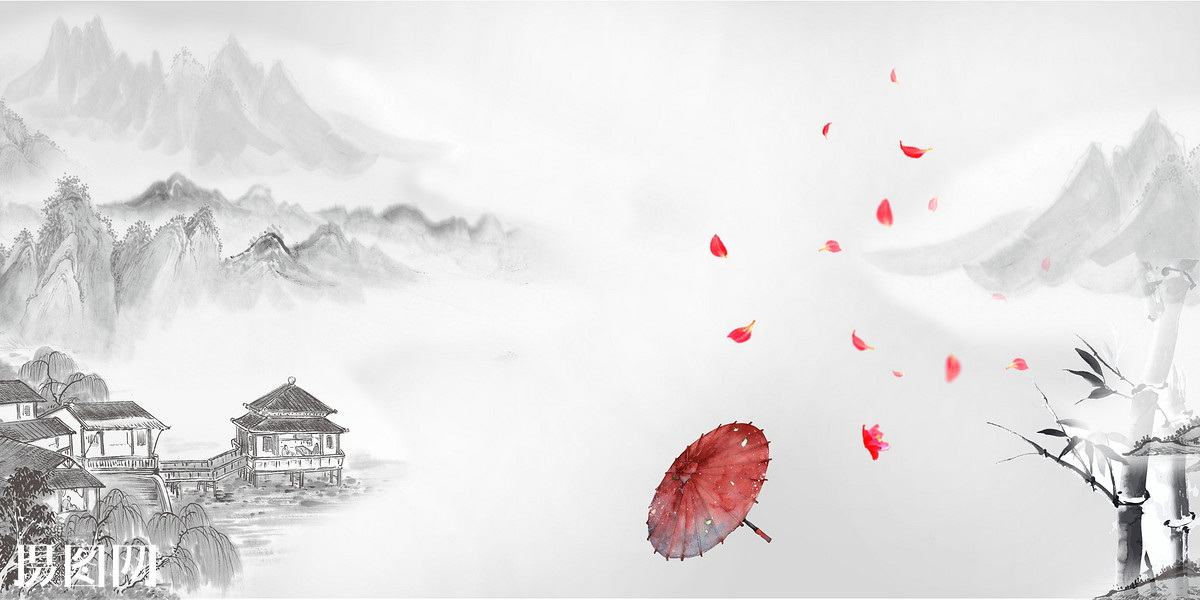
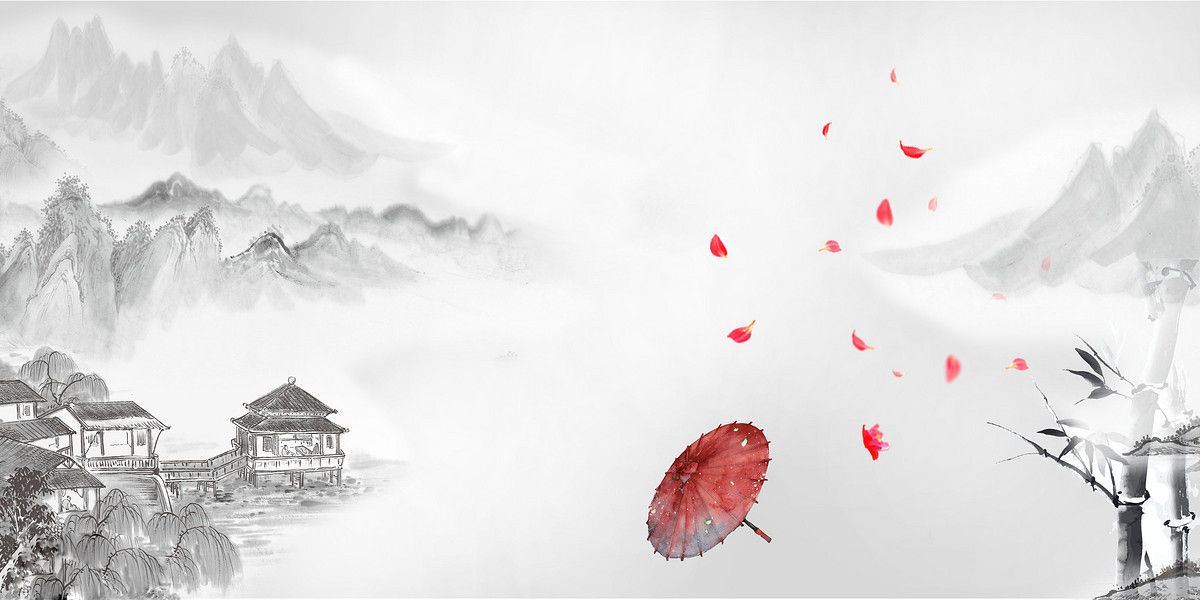
去除水印

Changed region(s): [[0.0, 0.87, 0.1542, 1.0]]

diff --git a/Gobang/GeneratedFiles/qrc_MainWindow.cpp b/Gobang/GeneratedFiles/qrc_MainWindow.cpp
@@ -1,13 +1,13 @@
 /****************************************************************************
 ** Resource object code
 **
-** Created by: The Resource Compiler for Qt version 5.10.1
+** Created by: The Resource Compiler for Qt version 5.10.0
 **
 ** WARNING! All changes made in this file will be lost!
 *****************************************************************************/
 
 static const unsigned char qt_resource_data[] = {
-  // E:/Visual Studio/Gobang/Gobang/image/????.PNG
+  // E:/IDE/GitHub/Gobang/Gobang/image/????.PNG
   0x0,0x0,0x2c,0x40,
   0x89,
   0x50,0x4e,0x47,0xd,0xa,0x1a,0xa,0x0,0x0,0x0,0xd,0x49,0x48,0x44,0x52,0x0,
@@ -718,7 +718,7 @@ static const unsigned char qt_resource_data[] = {
   0x4,0x20,0x0,0x1,0x8,0x40,0x0,0x2,0x10,0x80,0x0,0x4,0x20,0x0,0x1,0x8,
   0x40,0x0,0x2,0x10,0x80,0x0,0x4,0xb2,0x4,0xfe,0xf,0x21,0x6c,0x74,0x51,0x9f,
   0xc3,0xff,0x58,0x0,0x0,0x0,0x0,0x49,0x45,0x4e,0x44,0xae,0x42,0x60,0x82,
-    // E:/Visual Studio/Gobang/Gobang/image/?????????.png
+    // E:/IDE/GitHub/Gobang/Gobang/image/?????????.png
   0x0,0x0,0x65,0xed,
   0x0,
   0x8,0x9d,0x46,0x78,0x9c,0xed,0x9d,0xb,0xbc,0x5d,0x57,0x5d,0xe7,0xff,0xb7,0xa5,
@@ -2391,10 +2391,10 @@ static const unsigned char qt_resource_struct[] = {
 0x0,0x0,0x0,0x0,0x0,0x0,0x0,0x0,
   // :/MainWindow/image/????.PNG
   0x0,0x0,0x0,0x2a,0x0,0x0,0x0,0x0,0x0,0x1,0x0,0x0,0x0,0x0,
-0x0,0x0,0x1,0x63,0x3f,0xd6,0x41,0x78,
+0x0,0x0,0x1,0x63,0x3f,0x97,0x8f,0xcf,
   // :/MainWindow/image/?????????.png
   0x0,0x0,0x0,0x40,0x0,0x1,0x0,0x0,0x0,0x1,0x0,0x0,0x2c,0x44,
-0x0,0x0,0x1,0x63,0x40,0x26,0x63,0x23,
+0x0,0x0,0x1,0x63,0x40,0x25,0x81,0xca,
 
 };
 

diff --git a/Gobang/GeneratedFiles/Debug/moc_MainWindow.cpp b/Gobang/GeneratedFiles/Debug/moc_MainWindow.cpp
@@ -1,7 +1,7 @@
 /****************************************************************************
 ** Meta object code from reading C++ file 'MainWindow.h'
 **
-** Created by: The Qt Meta Object Compiler version 67 (Qt 5.10.1)
+** Created by: The Qt Meta Object Compiler version 67 (Qt 5.10.0)
 **
 ** WARNING! All changes made in this file will be lost!
 *****************************************************************************/
@@ -12,7 +12,7 @@
 #if !defined(Q_MOC_OUTPUT_REVISION)
 #error "The header file 'MainWindow.h' doesn't include <QObject>."
 #elif Q_MOC_OUTPUT_REVISION != 67
-#error "This file was generated using the moc from 5.10.1. It"
+#error "This file was generated using the moc from 5.10.0. It"
 #error "cannot be used with the include files from this version of Qt."
 #error "(The moc has changed too much.)"
 #endif
@@ -79,7 +79,7 @@ void MainWindow::qt_static_metacall(QObject *_o, QMetaObject::Call _c, int _id, 
     Q_UNUSED(_a);
 }
 
-QT_INIT_METAOBJECT const QMetaObject MainWindow::staticMetaObject = {
+const QMetaObject MainWindow::staticMetaObject = {
     { &QMainWindow::staticMetaObject, qt_meta_stringdata_MainWindow.data,
       qt_meta_data_MainWindow,  qt_static_metacall, nullptr, nullptr}
 };

diff --git a/Gobang/GeneratedFiles/ui_MainWindow.h b/Gobang/GeneratedFiles/ui_MainWindow.h
@@ -1,7 +1,7 @@
 /********************************************************************************
 ** Form generated from reading UI file 'MainWindow.ui'
 **
-** Created by: Qt User Interface Compiler version 5.10.1
+** Created by: Qt User Interface Compiler version 5.10.0
 **
 ** WARNING! All changes made in this file will be lost when recompiling UI file!
 ********************************************************************************/
